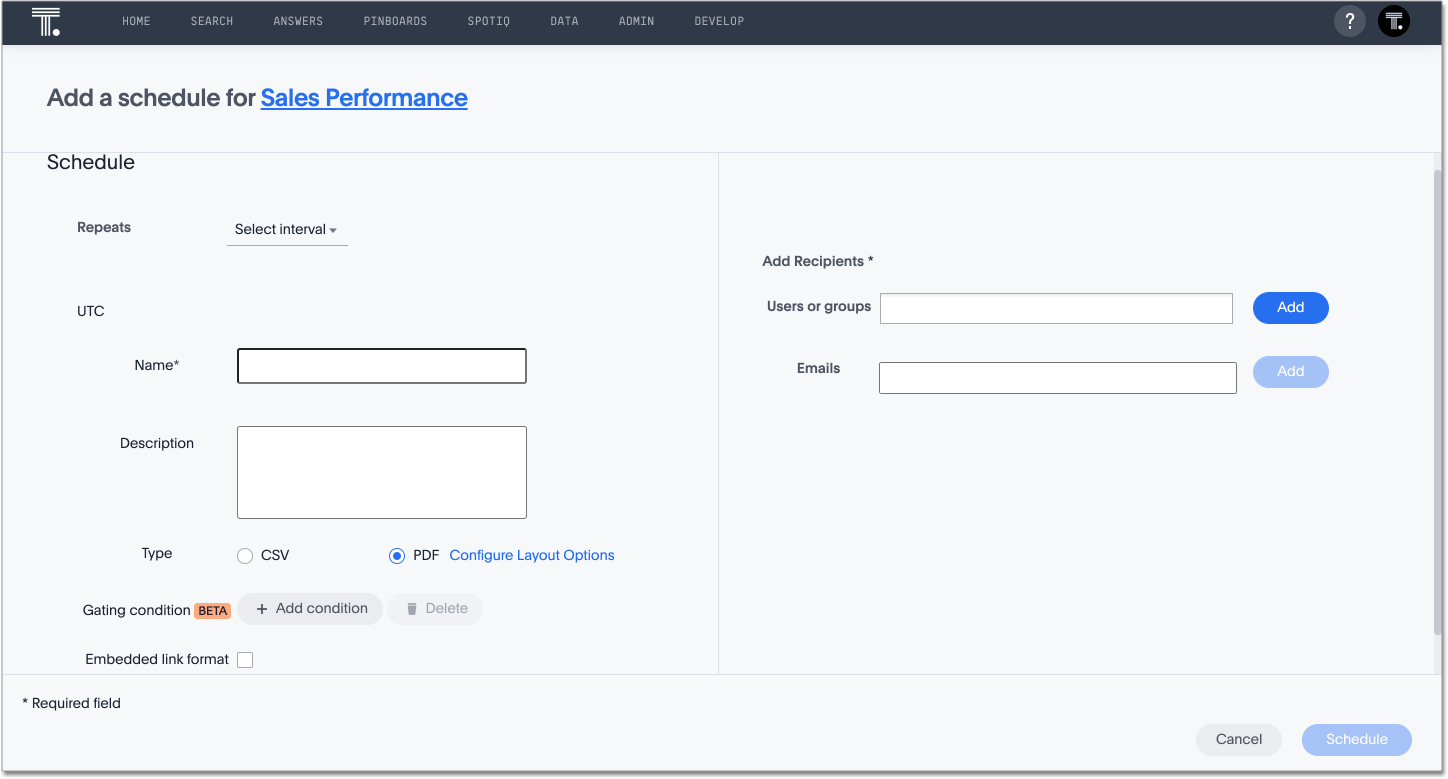
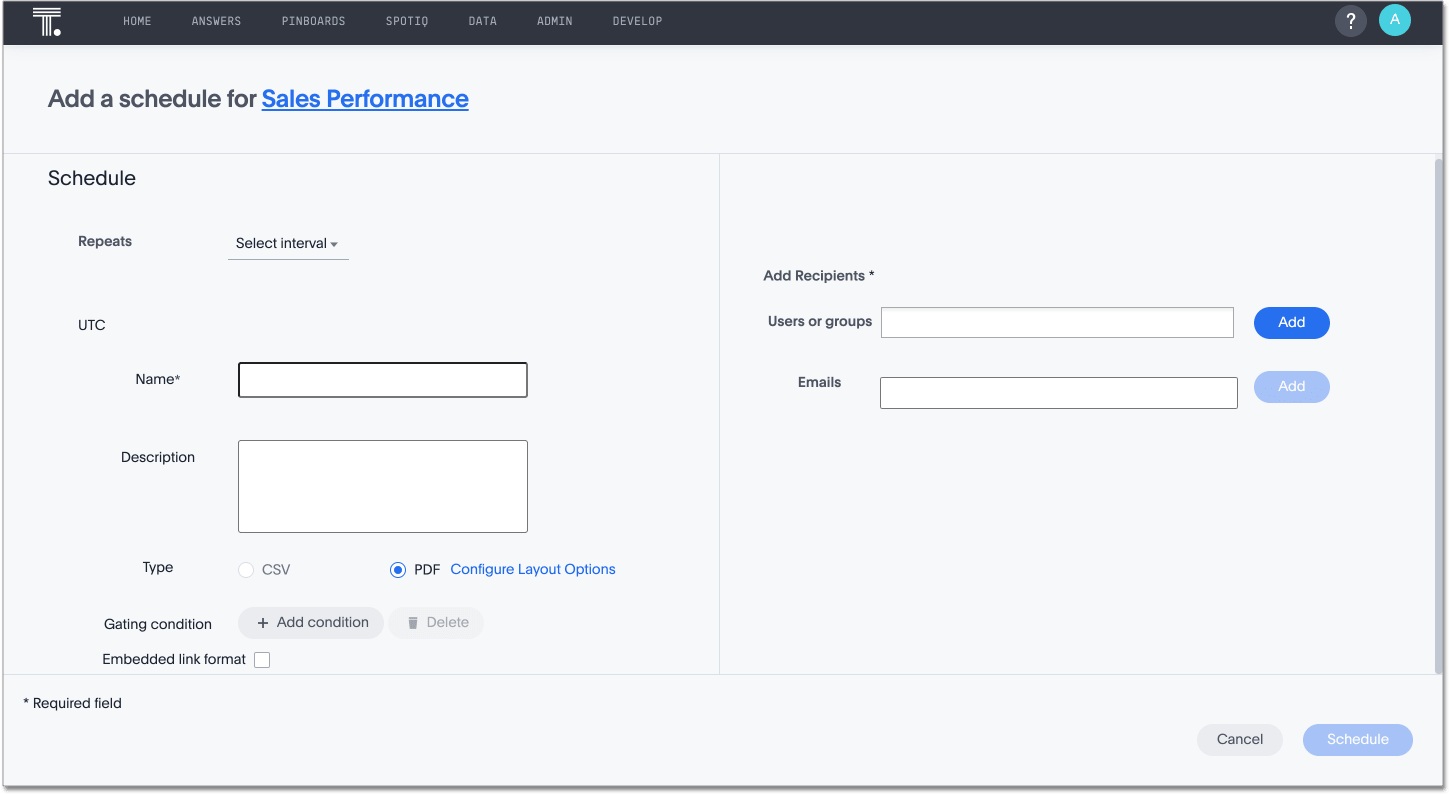
SCAL-98538 gating conditions are ga

diff --git a/_includes/content/new-features-cloud-release.md b/_includes/content/new-features-cloud-release.md
@@ -21,6 +21,13 @@ The latest release of ThoughtSpot Cloud contains several new and enhanced featur
 
 <h3><a id="october-cloud-2021-analyst"></a>For the Analyst</h3>
 
+<dl>
+<dlentry id="pinboard-gating-conditions">
+<dt>Pinboard schedule gating conditions</dt>
+<dd>Gating conditions for scheduled pinboards are now GA. Refer to <a href="{{ site.baseurl }}/admin/manage-jobs/schedule-a-pinboard-job.html">Schedule a pinboard job</a> to learn more about scheduling pinboards for email delivery, and how to leverage gating conditions so that ThoughtSpot only sends the pinboards when certain conditions are true.</dd>
+</dlentry>
+
+</dl>
 
 <h3><a id="october-cloud-2021-business-user"></a>For the Business User</h3>
 
